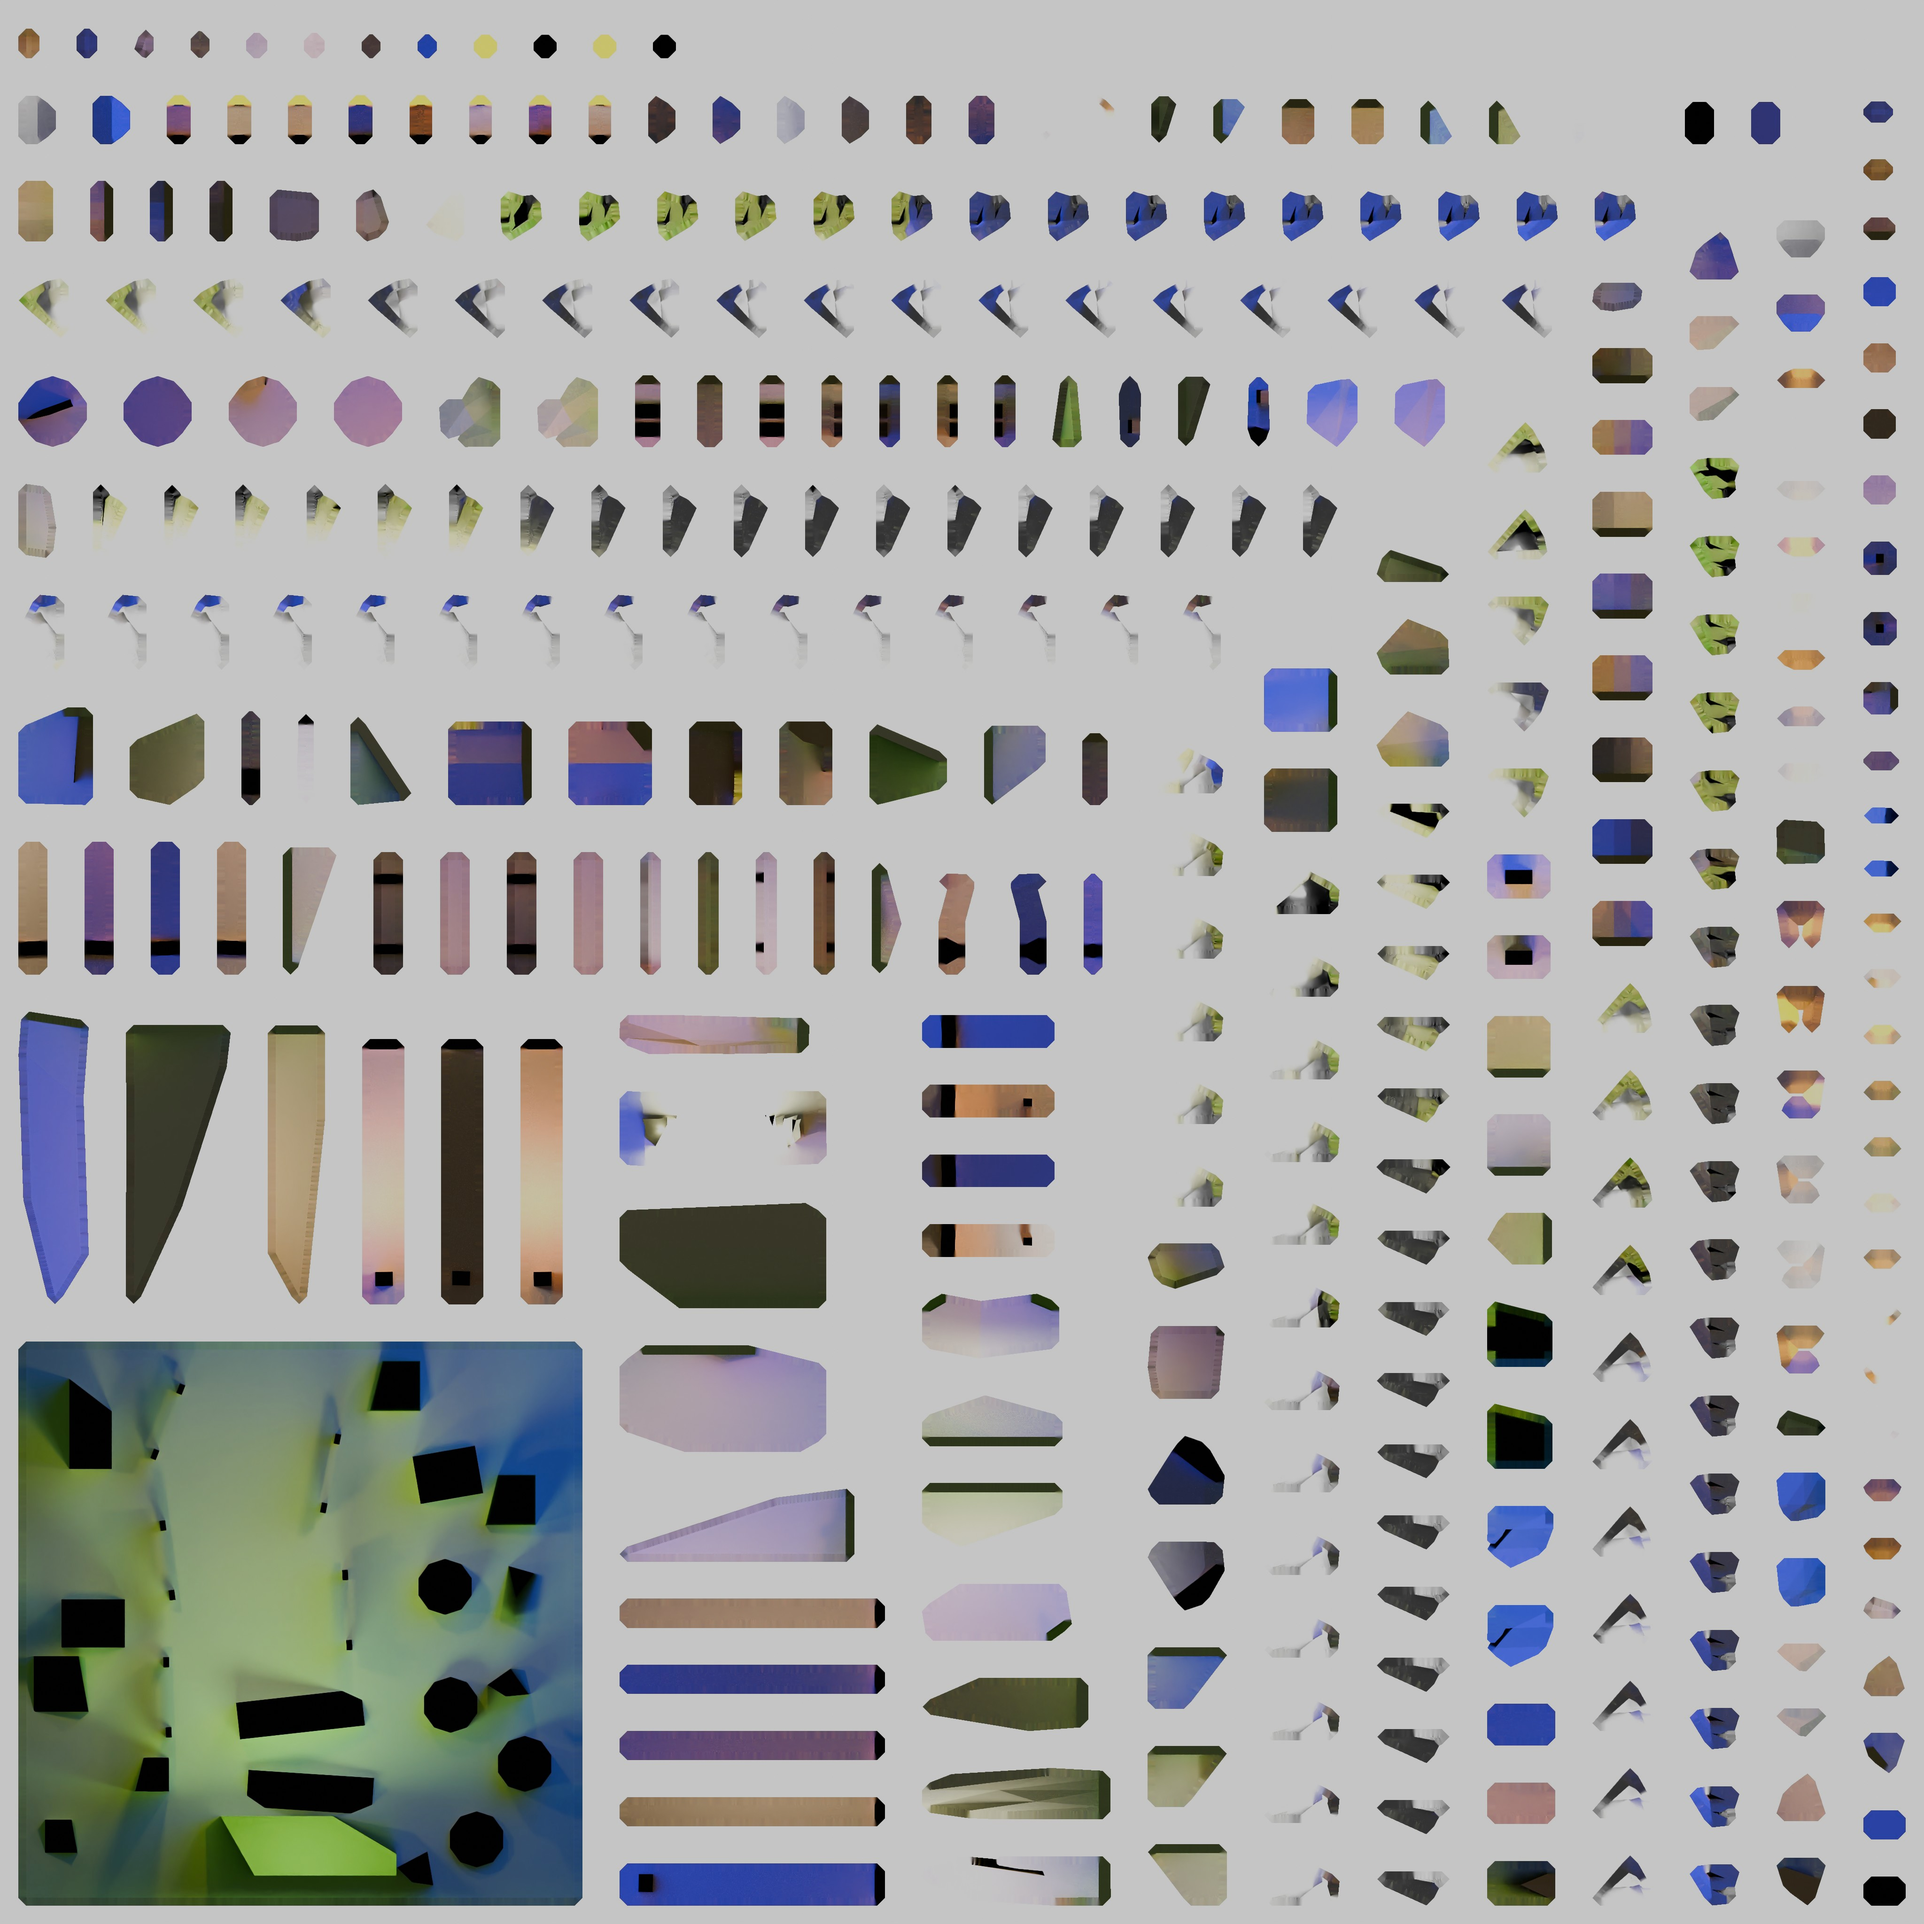
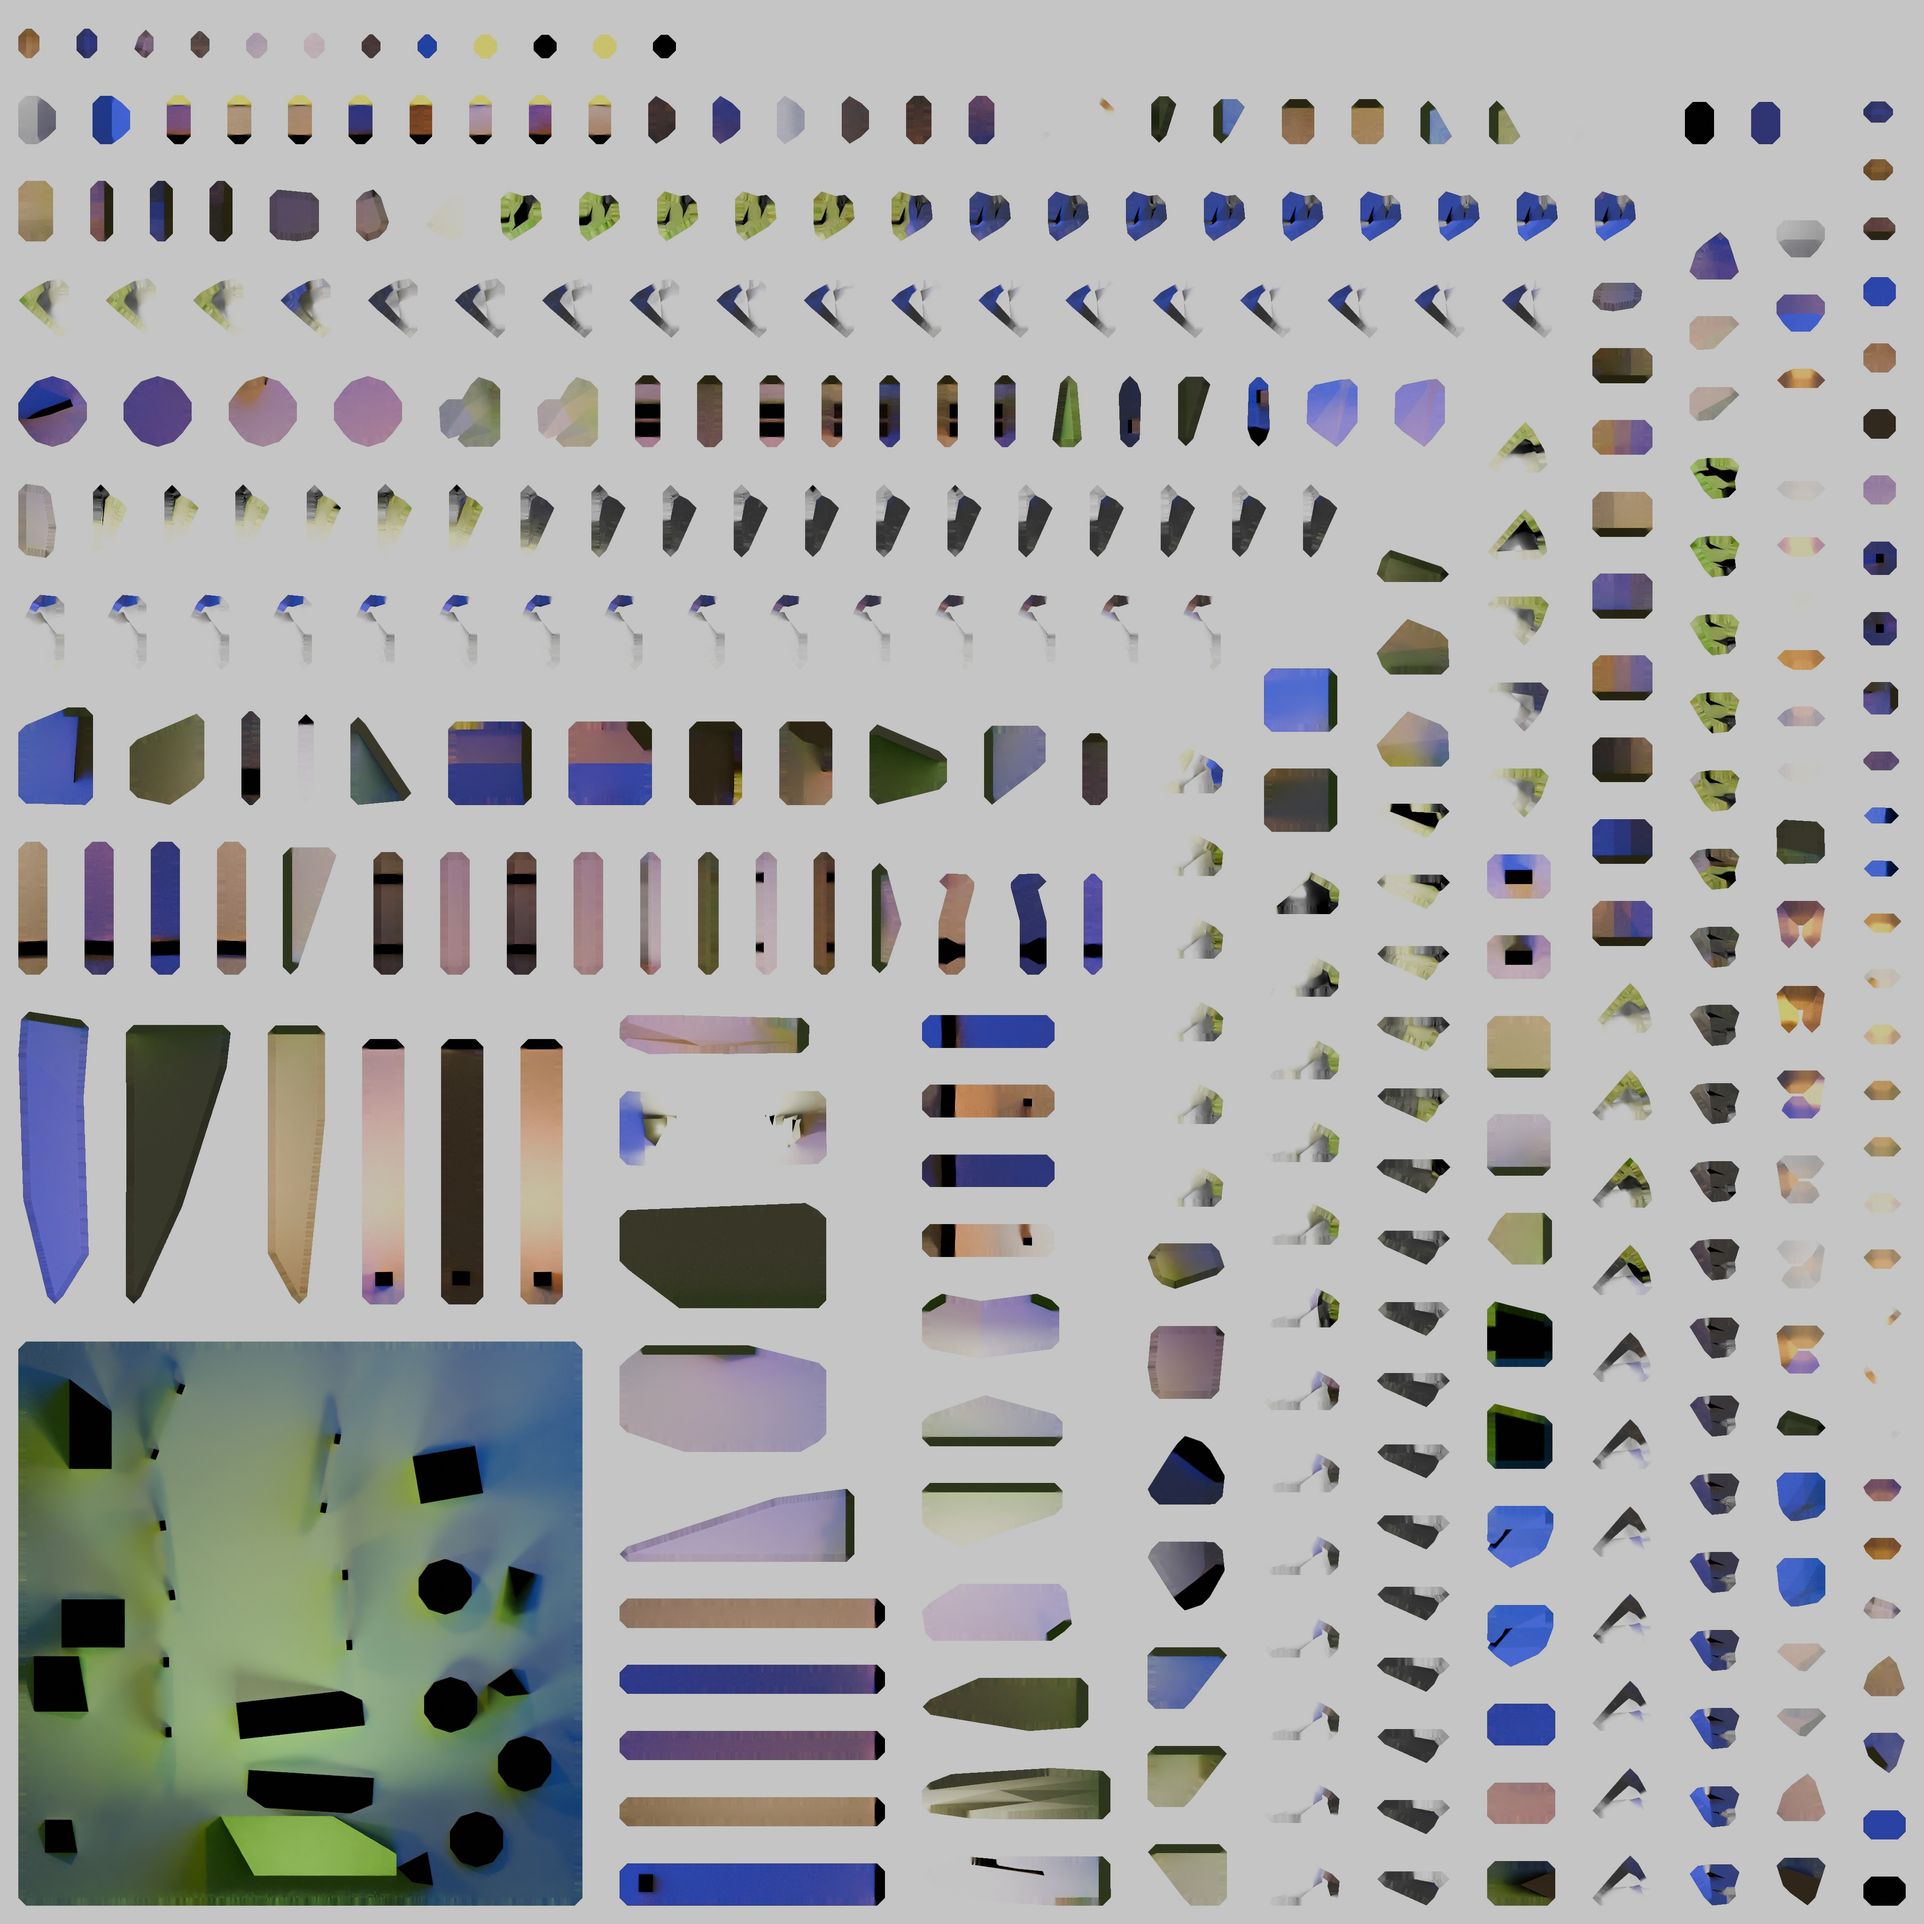
working model on threejs

Changed region(s): [[0.0, 0.875, 0.0938, 0.9688], [0.2188, 0.75, 0.3125, 0.8125], [0.1562, 0.6875, 0.25, 0.75]]

diff --git a/51-importing-and-optimizing-the-scene/src/script.js b/51-importing-and-optimizing-the-scene/src/script.js
@@ -30,28 +30,41 @@ dracoLoader.setDecoderPath("draco/");
 const gltfLoader = new GLTFLoader();
 gltfLoader.setDRACOLoader(dracoLoader);
 
-const bakedTexture = textureLoader.load("testing2.jpg");
+const bakedTexture = textureLoader.load("baked.jpg");
 bakedTexture.flipY = false;
 bakedTexture.colorSpace = THREE.SRGBColorSpace;
-/**
- * Object
- */
-const cube = new THREE.Mesh(
-  new THREE.BoxGeometry(1, 1, 1),
-  new THREE.MeshBasicMaterial()
-);
 
-// scene.add(cube);
+const poleLightMaterial = new THREE.MeshBasicMaterial({ color: 0xffffe5 });
+const portalLightMaterial = new THREE.MeshBasicMaterial({
+  color: 0xffffff,
+  side: THREE.DoubleSide,
+});
 
 const bakedMaterial = new THREE.MeshBasicMaterial({
   map: bakedTexture,
   side: THREE.DoubleSide,
 });
 
-gltfLoader.load("portal4.glb", (gltf) => {
-  gltf.scene.traverse((child) => {
-    child.material = bakedMaterial;
-  });
+gltfLoader.load("portalmerged.glb", (gltf) => {
+  const bakedMesh = gltf.scene.children.find((child) => child.name === "baked");
+
+  const poleLightAMesh = gltf.scene.children.find(
+    (child) => child.name === "poleLightA"
+  );
+  const poleLightBMesh = gltf.scene.children.find(
+    (child) => child.name === "poleLightB"
+  );
+  const portalLightMesh = gltf.scene.children.find(
+    (child) => child.name === "portalLight"
+  );
+
+  bakedMesh.material = bakedMaterial;
+  poleLightAMesh.material = poleLightMaterial;
+  poleLightBMesh.material = poleLightMaterial;
+  portalLightMesh.material = portalLightMaterial;
+
+  console.log(poleLightAMesh);
+
   scene.add(gltf.scene);
 });
 
